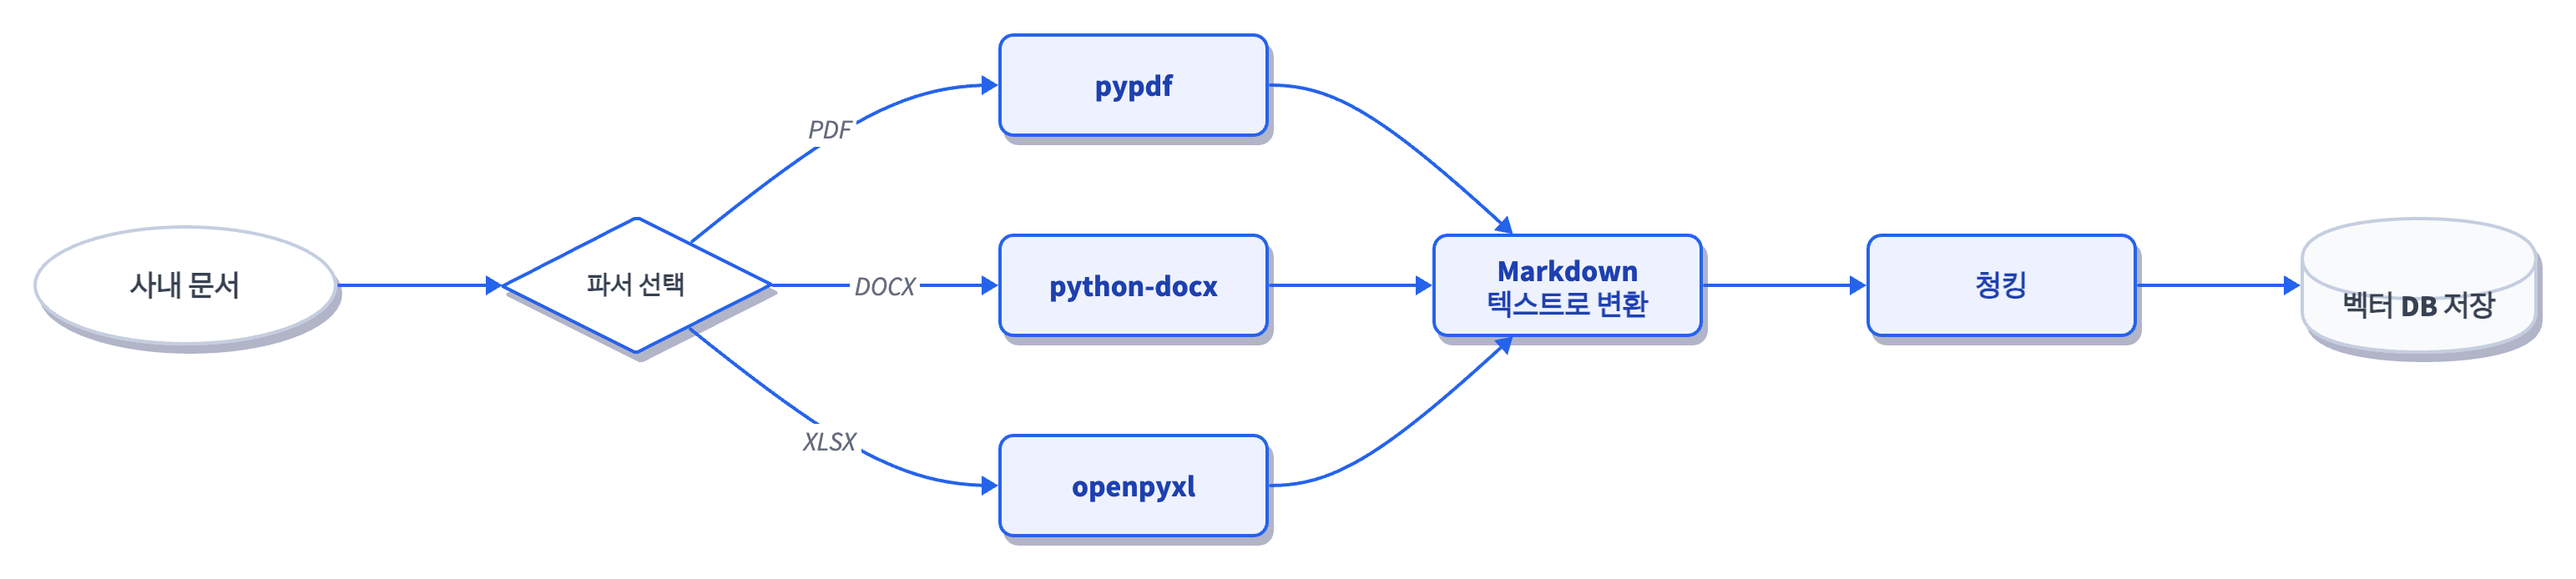
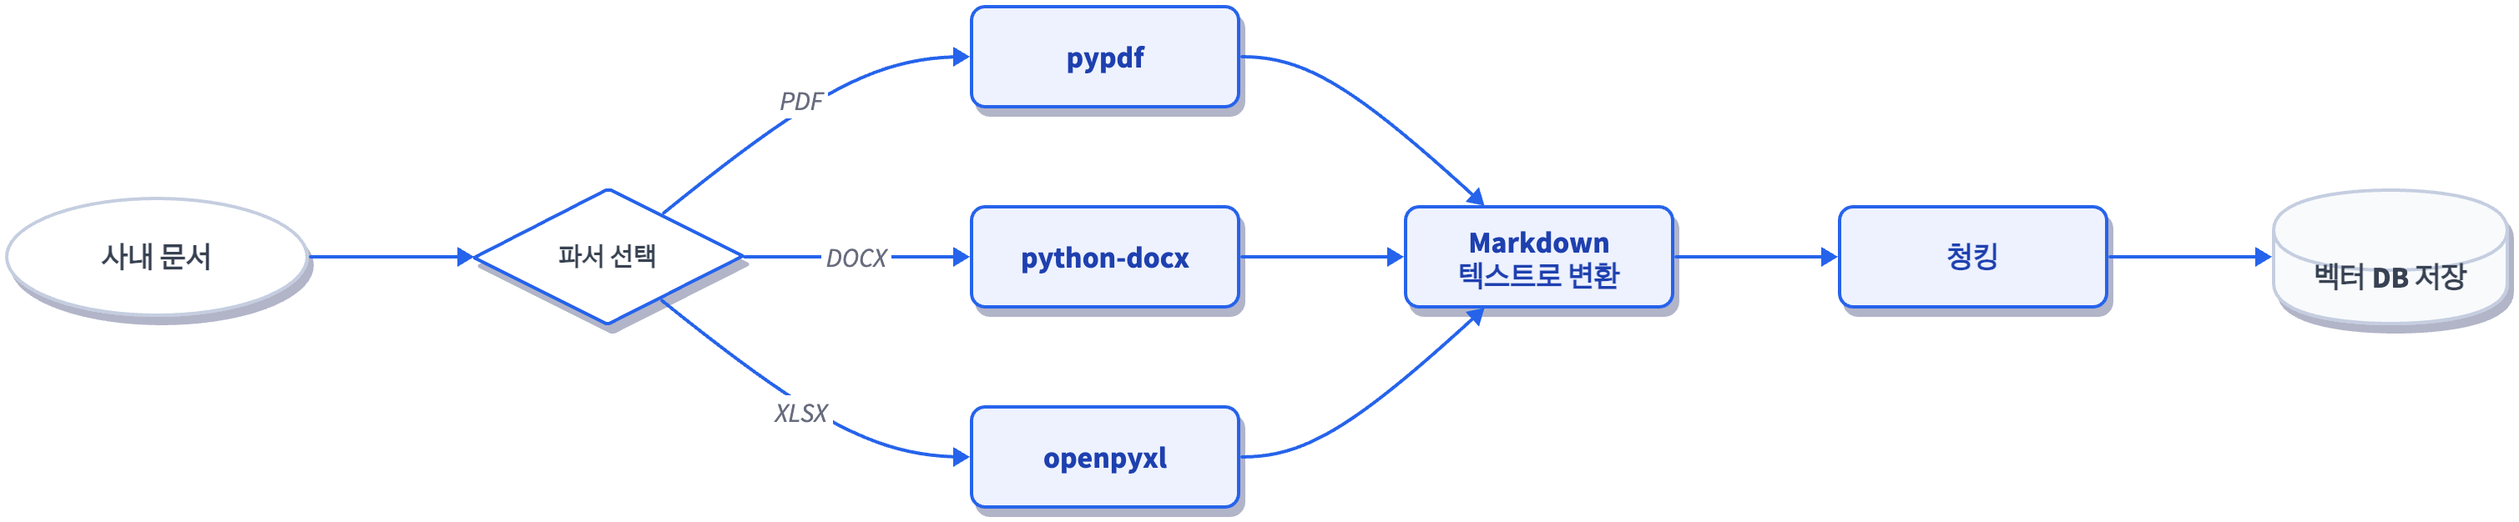
fix: 원고 레이아웃 수정 — 이미지 캡션 빈줄, 프롤로그 구분선 제거
- preface.md: 섹션 간 빈줄 추가 (Typst 렌더링 간격)
- prologue.md, prologue-v1.md: 제목 아래 --- 제거 (불필요한 수평선)
- CH01: 이미지와 캡션 사이 빈줄 추가, blockquote 형식 수정
- CH03 다이어그램 이미지 최적화 (113KB → 64KB)

diff --git a/projects/사내AI비서_v2/book/front/prologue.md b/projects/사내AI비서_v2/book/front/prologue.md
@@ -1,6 +1,6 @@
 # 프롤로그: 이 질문들, 해보신 적 있으시죠?
 
----
+
 
 "우리 회사 연차 규정이 어떻게 되나요?"
 

diff --git a/projects/사내AI비서_v2/book/front/prologue-v1.md b/projects/사내AI비서_v2/book/front/prologue-v1.md
@@ -1,6 +1,6 @@
 # 프롤로그: 사서가 눈을 뜬 날
 
----
+
 
 팀장이 말했습니다.
 
